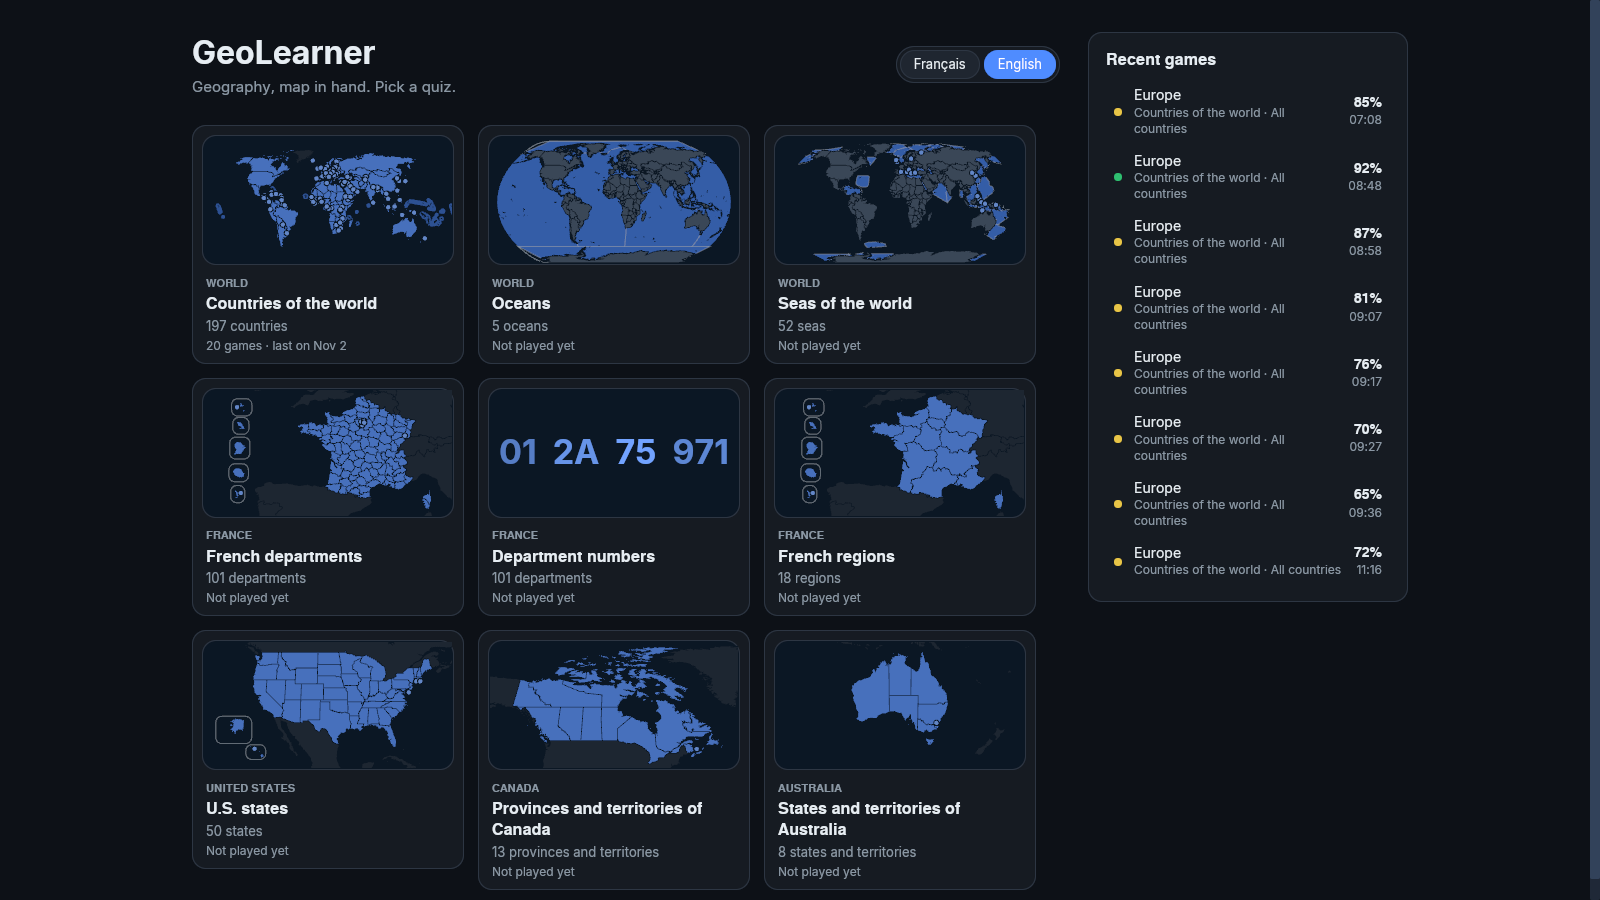
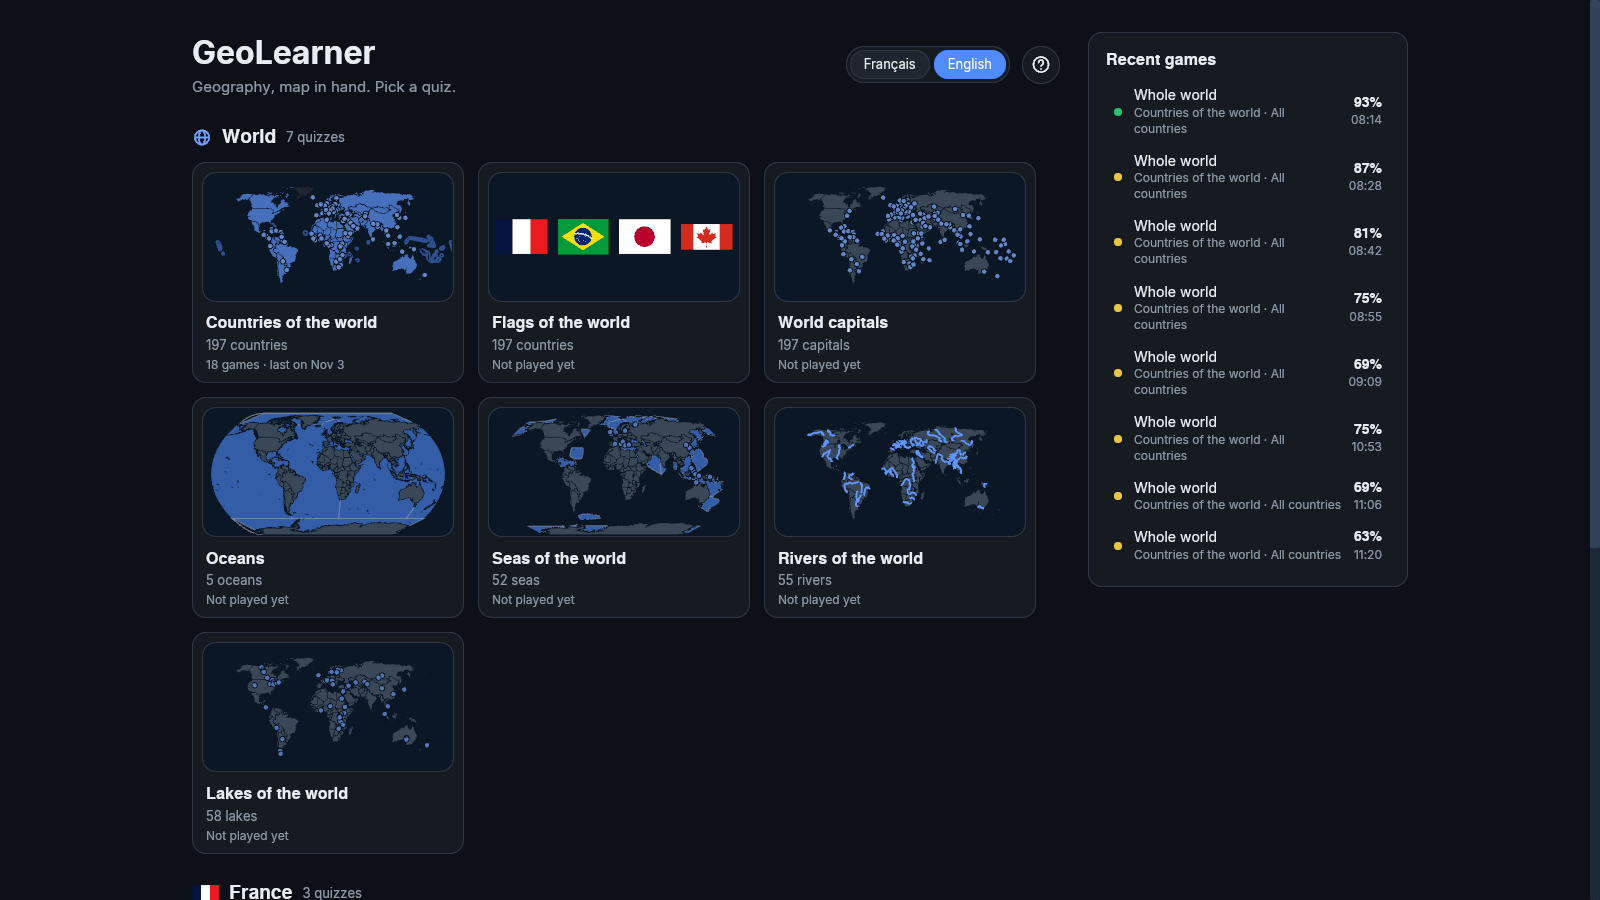
Version 0.4.0 : drapeaux, capitales, fleuves, lacs, menu d'aide
- Cargo.toml 0.4.0 (MSIX 0.4.0.0, snap 0.4.0).
- Notes de version : Store (packaging/windows/release-notes), GitHub
  (docs/releases/v0.4.0.md), AppStream (metainfo).
- Fiche du Store : descriptions, fonctionnalités et mots-clés avec drapeaux,
  capitales, fleuves et lacs ; 10 nouvelles captures par langue.
- Politique de confidentialité : export/import de la progression et liens
  du menu d'aide.

diff --git a/docs/releases/v0.4.0.md b/docs/releases/v0.4.0.md
@@ -1,0 +1,35 @@
+## Nouveautés
+
+- **Drapeaux du monde** (197) : trois façons de jouer. « Drapeau → pays » : le drapeau s'affiche, on tape ou dit le pays. « Drapeau → carte » : on clique sur le pays. « Pays → drapeau » : on choisit le drapeau parmi six. Une **galerie** montre les drapeaux de la zone avec leur nom, et un clic agrandit un drapeau. Les drapeaux sont vectoriels, nets à toutes les tailles.
+- **Capitales du monde** (197) : toutes les capitales, nommer la capitale dont la pastille clignote, ou la trouver sur la carte.
+- **Fleuves du monde** (55) et **lacs du monde** (58), par continent.
+- **Accueil par sections** : le monde d'abord, puis la France, les États-Unis, le Canada et l'Australie.
+- **Carte de repère** pour les quiz sans carte (numéros des départements, « Drapeau → pays ») : elle montre les réponses possibles, avec ou sans noms.
+- **Menu d'aide** (bouton « ? » ou F1) : à propos, nouveautés, raccourcis clavier, signaler un problème, exporter et importer sa progression pour changer d'ordinateur.
+- Au clavier, une réponse reconnue est validée tout de suite, **juste ou fausse** : avant, seules les bonnes l'étaient, ce qui trahissait les mauvaises.
+- Carte de maîtrise : les archipels prennent la couleur de leur niveau.
+
+## Installer
+
+- **Windows** : [Microsoft Store](https://apps.microsoft.com/detail/9N1C5KFNMV7H)
+- **Ubuntu** : [Snap Store](https://snapcraft.io/geo-learner), ou le fichier `.snap` ci-dessous
+- **Autres distributions Linux** : le paquet `.flatpak` ci-dessous (`flatpak install --user geo-learner-0.4.0-x86_64.flatpak`), ou l'archive `.tar.gz` (`tar -xzf geo-learner-0.4.0-x86_64-linux.tar.gz -C ~/.local --strip-components=1`)
+
+---
+
+## What's new
+
+- **Flags of the world** (197): three ways to play. "Flag → country": a flag is shown, type or say the country. "Flag → map": click the country. "Country → flag": pick the flag among six. A **gallery** shows the flags of an area with their names, and a click enlarges a flag. Flags are vector graphics, sharp at any size.
+- **World capitals** (197): name them all, name the capital whose dot is blinking, or find it on the map.
+- **Rivers of the world** (55) and **lakes of the world** (58), by continent.
+- **Home screen in sections**: the world first, then France, the United States, Canada and Australia.
+- **Reference map** for the quizzes without a map (department numbers, "Flag → country"): it shows the possible answers, with or without names.
+- **Help menu** (the "?" button or F1): about, what's new, keyboard shortcuts, report a problem, export and import your progress to move to another computer.
+- When typing, a recognized answer is submitted right away, **right or wrong**: before, only right answers were, which gave the wrong ones away.
+- Mastery map: archipelagos take the color of their level.
+
+## Install
+
+- **Windows**: [Microsoft Store](https://apps.microsoft.com/detail/9N1C5KFNMV7H)
+- **Ubuntu**: [Snap Store](https://snapcraft.io/geo-learner), or the `.snap` file below
+- **Other Linux distributions**: the `.flatpak` package below (`flatpak install --user geo-learner-0.4.0-x86_64.flatpak`), or the `.tar.gz` archive (`tar -xzf geo-learner-0.4.0-x86_64-linux.tar.gz -C ~/.local --strip-components=1`)

diff --git a/PRIVACY.md b/PRIVACY.md
@@ -1,6 +1,6 @@
 # Politique de confidentialité de GeoLearner
 
-*Dernière mise à jour : 3 novembre 2026*
+*Dernière mise à jour : 5 novembre 2026*
 
 GeoLearner est une application d'apprentissage de la géographie. Elle ne collecte, ne transmet
 et ne vend **aucune donnée personnelle**. Il n'y a ni compte, ni publicité, ni statistiques
@@ -17,6 +17,10 @@ L'application enregistre uniquement, dans son dossier de données local :
 
 Ces fichiers ne quittent jamais votre appareil. Désinstaller l'application les supprime.
 
+« Exporter la progression » (menu d'aide) écrit votre historique dans un fichier que vous
+choisissez ; « Importer une progression » lit un fichier que vous choisissez. Ces fichiers ne
+sont envoyés nulle part.
+
 ## Microphone
 
 Le microphone n'est utilisé que lorsque vous activez la saisie vocale pendant une partie. Le son
@@ -28,6 +32,11 @@ enregistré, ni envoyé à qui que ce soit.
 La seule connexion réseau est le téléchargement, à votre demande, du modèle de reconnaissance
 vocale de la langue choisie (français ou anglais, environ 42 Mo) depuis le site du projet Vosk (alphacephei.com). Comme pour tout
 téléchargement, ce serveur voit l'adresse IP de l'appareil. Aucune autre donnée n'est envoyée.
+
+Les liens du menu d'aide (code source, nouveautés, politique de confidentialité, « Signaler un
+problème ») s'ouvrent dans votre navigateur ou votre logiciel de messagerie, seulement quand vous
+cliquez dessus. Un signalement est prérempli avec la version de l'application et le système
+(par exemple « Linux x86_64 ») ; il n'est envoyé que si vous le validez vous-même.
 
 ## Contact
 
@@ -41,4 +50,8 @@ GeoLearner does not collect, transmit or sell any personal data. There is no acc
 advertising, no analytics and no online service. Game history, settings and the speech models are stored
 locally on your device only. Microphone audio is processed locally to recognise place names and
 is never recorded or sent anywhere. The only network access is the user-requested, one-time
-download of the speech model for the chosen language (English or French) from alphacephei.com. Contact: big.learner.app@gmail.com
+download of the speech model for the chosen language (English or French) from alphacephei.com.
+"Export progress" and "Import progress" only write or read a file you choose. Links in the help
+menu (source code, what's new, privacy policy, "Report a problem") open in your browser or email
+client only when you click them; a report is prefilled with the app version and system, and is
+only sent if you submit it yourself. Contact: big.learner.app@gmail.com
